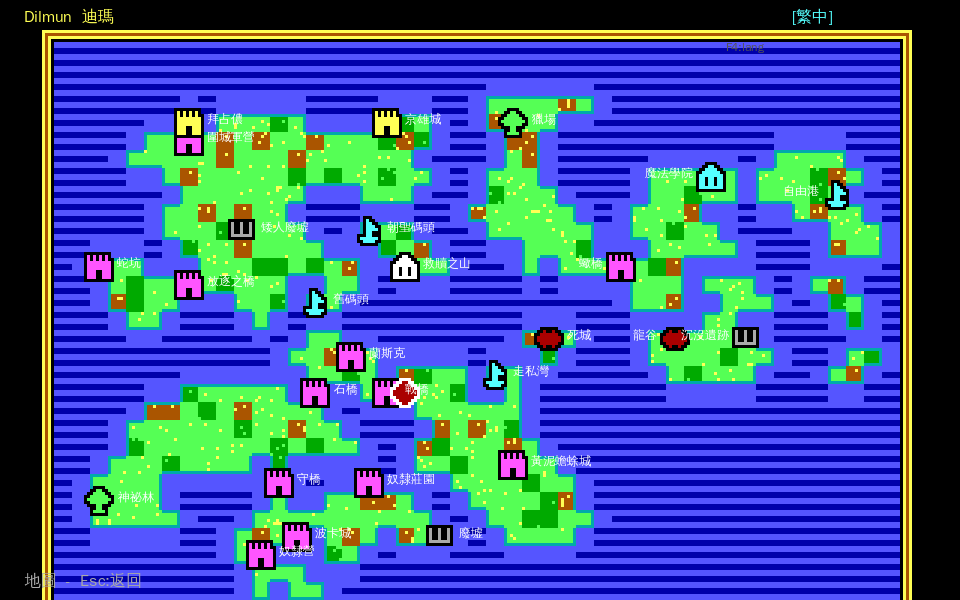
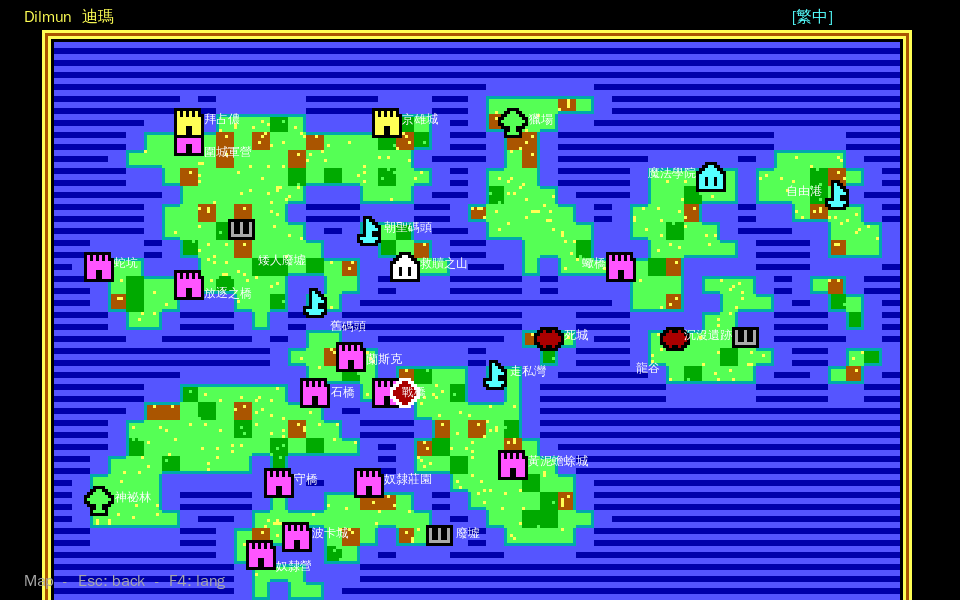
docs(readme): 以遊戲史視角重寫淵源 + 世界圖換最新修正版 (#176)
淵源敘事(Bard's Tale 血緣):
- 「這是什麼」開頭新增遊戲史段落 — Interplay 開發、發行前一個月仍叫
  Bard's Tale IV、EA 握商標故改名 Dragon Wars 換 Activision 發行、
  Heineman 從初代壓縮常式一路寫到主程式、本 remake 反組譯的正是她
  1989 引擎。誠實標示法律上為獨立 IP、非官方 BT4;連到 docs/66。

圖文相符(逐圖核對):
- 世界圖 wm_app_a0.png / wm_world.png 換成 #175 修正後最新 dump
  (docker headless --automap 0 / --map 0 --frames 3):label 不重疊、
  F4:lang 提示移出地圖框入底部訊息列、無 badge 雜訊。
- 修正 F4 三語表日文欄圖說:該截圖事件無日譯 → 顯英文回退;補述
  events 212/283 等具 X68000 原版日文者才直接顯日文。
- 其餘 19 張嵌入圖逐一目視核對,描述與圖一致,不動。

數字核實:ctest 34/34(clean build PASS)、4 主題(dos/amiga/x68000/vga)、
Amiga 50 怪物、VM 126 opcode、建角 50 點池、中後期英文回退 74→1。

diff --git a/README.md b/README.md
@@ -35,11 +35,21 @@
 <a name="what"></a>
 ## 🐉 這是什麼
 
-1989 年，Interplay 推出《火龍之戰》（*Dragon Wars*）——一款以「被剝奪所有裝備、丟進罪惡之城地牢」開場的第一人稱迷宮 CRPG。它是 *Bard's Tale* 班底的精神續作，以硬派的探索、技能檢定與回合制群戰著稱。
+### 一段藏在改名背後的血緣
 
-這個專案做兩件事：
+1989 年，Interplay 推出《火龍之戰》（*Dragon Wars*）——一款以「被剝奪所有裝備、赤身丟進罪惡之城地牢」開場的第一人稱迷宮 CRPG。但它一開始並不叫這個名字。
 
-- **乾淨室重製**。不是把組合語言再翻一次，而是理解後的現代重寫——手寫的 script VM + 渲染器 + 資產層，**執行原始（已萃取並驗證）的 bytecode**。正確性靠 [opendw](https://github.com/dswban/opendw)（Devin Smith 的 C 反組譯，對應 Rebecca Heineman 1989 原版引擎）當 **oracle**：每個模組以「與 opendw 逐位元 / 逐指令一致」為驗收。
+直到發行前一個月，這款遊戲都還叫**《吟遊詩人傳說 IV》（Bard's Tale IV）**。問題出在商標：Interplay 握有引擎程式碼與劇本，但「Bard's Tale」這塊招牌的商標權屬於發行商美商藝電（EA）。為了不付授權費，團隊在最後關頭把遊戲改名、重寫故事硬塞進一條龍（成品裡龍的戲份其實很少），改由 Activision（當時品牌 Mediagenic）發行。Interplay 的廣告仍直接喊話「Bard's Tale Fans Rejoice!」，並主打可從《吟遊詩人傳說》三部曲匯入角色——血緣寫在臺面上。
+
+把這兩條線縫在一起的人是 **Rebecca "Burger Becky" Heineman**：她從初代《吟遊詩人傳說》就在寫資料壓縮常式與開發工具，到第三作《Thief of Fate》與《火龍之戰》更直接擔任主程式。所以《火龍之戰》不是另起爐灶的重寫，而是同一條技術脈絡在 Heineman 手下走到的成熟末端——它融合了《吟遊詩人傳說》的第一人稱地城骨架，與《廢土》（Wasteland, 1988）的開放敘事與「段落書」（paragraph book）防拷劇情。
+
+這條血緣與本專案直接相關：本 remake 的反組譯基準 [opendw](https://github.com/dswban/opendw) 由 Devin Smith 製作，對應的正是 **Heineman 1989 年《火龍之戰》原版 16-bit x86 引擎**。逐指令研究這套引擎，等於在研究 Bard's Tale 技術脈絡的成熟形態。
+
+> 誠實邊界：法律與品牌意義上，《火龍之戰》是獨立 IP，**不是官方第四部 Bard's Tale**——商標問題使它無法掛上舊招牌。「精神續作」一說有 Heineman 本人受訪佐證（本來就是 BT IV、同一批人、可匯入角色、共用設計語彙），不只是後人的浪漫化標籤。完整考證、時間線與信心標示見 [docs/66 — Bard's Tale 血緣脈絡](opendw_remake/docs/reference/66_BARDS_TALE_LINEAGE.md)。
+
+### 這個專案做兩件事
+
+- **乾淨室重製**。不是把組合語言再翻一次，而是理解後的現代重寫——手寫的 script VM + 渲染器 + 資產層，**執行原始（已萃取並驗證）的 bytecode**。正確性靠 [opendw](https://github.com/dswban/opendw)（Devin Smith 的 C 反組譯，對應上文那套 Heineman 1989 原版引擎）當 **oracle**：每個模組以「與 opendw 逐位元 / 逐指令一致」為驗收。
 - **繁體中文化**。menu、角色、戰鬥、法術、物品全繁中，主線事件 200+ 鍵 + 147 段落 + 結局譯成繁中；遊戲中 `F4` 可即時切 繁中 / EN / 日，24×24 點陣與 SDL2_ttf 雙層渲染讓 CJK 永遠銳利。
 
 成果：`opendw_remake/`（C++20 + SDL2）現在能跑出**完整一輪**——**建立人物 → 探索 38/40 連通世界 → 主線繁中事件 → 終戰 Namtar → 結局 → 全劇終**。資產已萃取成自包含 bundle（`assets/bundle/`），**執行期不需要原始 `DRAGON.COM` / `DATA1` / `DATA2`**。
@@ -129,7 +139,7 @@ tar xzf opendw-remake-*.tar.gz
 | 繁體中文 | English | 日本語 |
 |:---:|:---:|:---:|
 | ![zh](opendw_remake/docs/media/screenshots/r10_event_zh-TW.png) | ![en](opendw_remake/docs/media/screenshots/r10_event_en.png) | ![ja](opendw_remake/docs/media/screenshots/r10_event_ja.png) |
-| 主線事件繁中 | 原文英文 | events 212/283 採 X68000 原版日文原文（破解 nibble-swap SJIS） |
+| 主線事件繁中 | 原文英文 | 日語介面（此格事件無日譯 → 回退英文）；events 212/283 等具 X68000 原版日文者直接顯日文（破解 nibble-swap SJIS） |
 
 ### 半透明對話框（踩格事件訊息）
 
